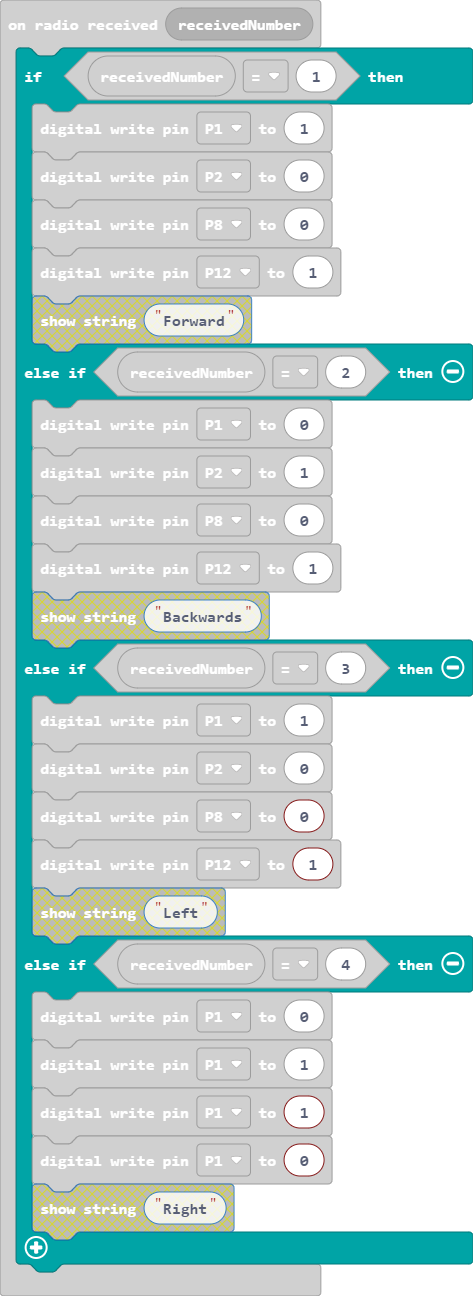
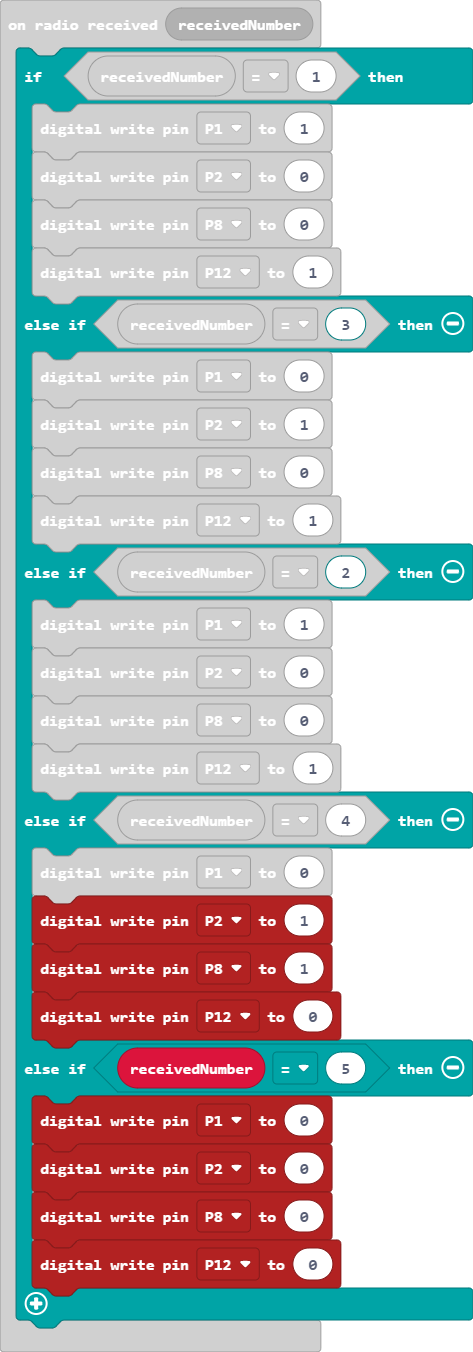
stop added

diff --git a/main.ts b/main.ts
@@ -4,21 +4,26 @@ radio.onReceivedNumber(function (receivedNumber) {
         pins.digitalWritePin(DigitalPin.P2, 0)
         pins.digitalWritePin(DigitalPin.P8, 0)
         pins.digitalWritePin(DigitalPin.P12, 1)
-    } else if (receivedNumber == 2) {
+    } else if (receivedNumber == 3) {
         pins.digitalWritePin(DigitalPin.P1, 0)
         pins.digitalWritePin(DigitalPin.P2, 1)
         pins.digitalWritePin(DigitalPin.P8, 0)
         pins.digitalWritePin(DigitalPin.P12, 1)
-    } else if (receivedNumber == 3) {
+    } else if (receivedNumber == 2) {
         pins.digitalWritePin(DigitalPin.P1, 1)
         pins.digitalWritePin(DigitalPin.P2, 0)
         pins.digitalWritePin(DigitalPin.P8, 0)
         pins.digitalWritePin(DigitalPin.P12, 1)
     } else if (receivedNumber == 4) {
         pins.digitalWritePin(DigitalPin.P1, 0)
-        pins.digitalWritePin(DigitalPin.P1, 1)
-        pins.digitalWritePin(DigitalPin.P1, 1)
+        pins.digitalWritePin(DigitalPin.P2, 1)
+        pins.digitalWritePin(DigitalPin.P8, 1)
+        pins.digitalWritePin(DigitalPin.P12, 0)
+    } else if (receivedNumber == 5) {
         pins.digitalWritePin(DigitalPin.P1, 0)
+        pins.digitalWritePin(DigitalPin.P2, 0)
+        pins.digitalWritePin(DigitalPin.P8, 0)
+        pins.digitalWritePin(DigitalPin.P12, 0)
     }
 })
 radio.setGroup(44)
